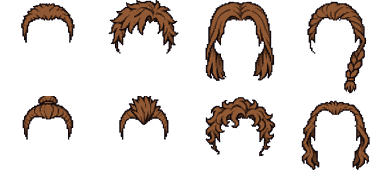
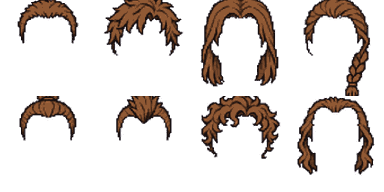
M8.10: hair a little bigger so it covers the wider heads
Claude-Session: https://claude.ai/code/session_01AEHRuyPSDQGVtbtBJLwWks

diff --git a/scripts/cut-faces.py b/scripts/cut-faces.py
@@ -36,7 +36,7 @@ SHEETS = {
 # now and only move (M8.09).
 FIT = {
     "heads": (1.0, 0, 0),
-    "hair": (1.0, 0, -2),
+    "hair": (1.12, 0, -1),  # a little bigger, so it covers the wider heads (Mike, M8.10)
     "beards": (1.0, 0, 8),
     "extras": (1.0, 0, 0),
     "injuries": (1.0, 0, 0),
